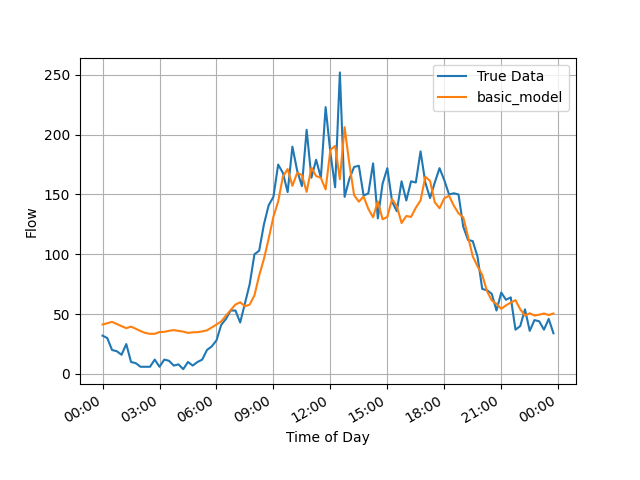
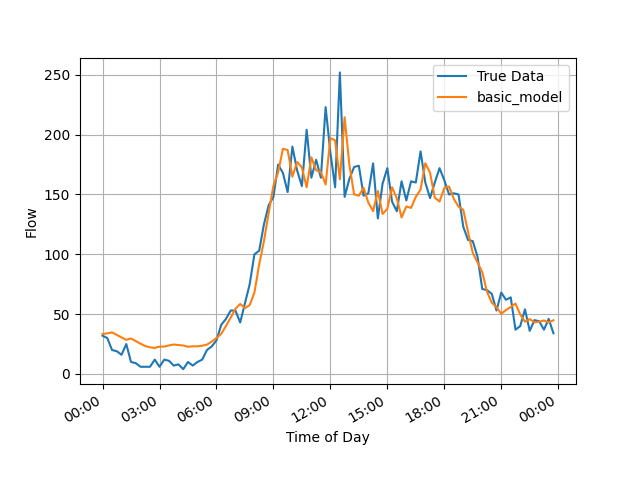
Fix model testing

diff --git a/model/nn_model.py b/model/nn_model.py
@@ -1,6 +1,7 @@
 import os
 import keras
 from numpy import ndarray
+import pandas as pd
 from sklearn.discriminant_analysis import StandardScaler
 
 
@@ -33,3 +34,39 @@ class Model:
         inverse = scaler.inverse_transform(res)
 
         return inverse.reshape(1, -1)[0]
+
+    def predict_from_last_n_batch(
+        self, data_batch: list[list[int]], scaler: StandardScaler
+    ) -> list[int]:
+        """Predict the output for a batch of lists, where each list is a 1D array of flow values.
+        The output is a list of predicted actual (unnormalized) values.
+        """
+
+        # ensure all lists in the batch have the same length as the required lags
+        lags = self.keras.input_shape[1]
+
+        for data in data_batch:
+            if len(data) != lags:
+                raise ValueError(
+                    f"Each data input must have {lags} lags, but got {len(data)}"
+                )
+
+        # normalise the entire batch
+        normalised_batch = []
+        for data in data_batch:
+            normalised_batch.append([scaler.transform([[val]])[0][0] for val in data])
+
+        # convert to df
+        x = pd.DataFrame(normalised_batch)
+
+        # reshape to the input shape for the model: (batch_size, lags, 1)
+        x = x.values.reshape(len(data_batch), lags, 1)
+
+        # get the predictions for the entire batch (batch_size, 1, 1)
+        normalised_predictions = self.keras.predict(x)
+
+        # inverse transform the predictions to get the original scale
+        predictions = scaler.inverse_transform(normalised_predictions.reshape(-1, 1))
+
+        # reshape to a list of ints and return
+        return [int(pred[0]) for pred in predictions]

diff --git a/model_testing.py b/model_testing.py
@@ -1,3 +1,4 @@
+import numpy as np
 from data_loader import DataLoader
 from model.model_builder import ModelBuilder
 from model.nn_model import Model
@@ -21,9 +22,7 @@ data_loader = DataLoader(
     [
         # filter only some locations
         ProcessingSteps.filter_rows(
-            lambda df: df["LOCATION"].isin(
-                ["WARRIGAL_RD N of HIGH STREET_RD", "HIGH STREET_RD E of WARRIGAL_RD"]
-            )
+            lambda df: df["LOCATION"].isin(["WARRIGAL_RD N of HIGH STREET_RD"])
         ),
         # categorise location
         ProcessingSteps.categorise_column("LOCATION"),
@@ -61,17 +60,13 @@ main_input_data = data_loader.create_train_test_split_from_df(
     training_config.lags,
 )
 
-x_test = main_input_data.x_test
+x_test = [
+    [32, 30, 20, 19, 16, 25, 10, 9, 6, 6, 6, 12],
+    [6, 12, 11, 7, 8, 4, 10, 7, 10, 12, 20, 43],
+    # bigs one
+    [46, 53, 53, 43, 59, 75, 100, 103, 125, 141, 148, 175],
+]
 
-example_test = x_test[0]
-
-print(f"example_test: {example_test}")
-
-# scale
-
-# scaled = main_input_data.scaler.inverse_transform(example_test)
-
-
-prediction = model.predict(example_test, main_input_data.scaler)
+prediction = model.predict_from_last_n_batch(x_test, main_input_data.scaler)
 
 print(f"prediction: {prediction}")

diff --git a/main.py b/main.py
@@ -50,7 +50,7 @@ data_loader = DataLoader(
 )
 
 training_config = TrainingConfig(
-    epochs=50,
+    epochs=200,
     batch_size=256,
     lags=12,
     train_test_proportion=0.7,
